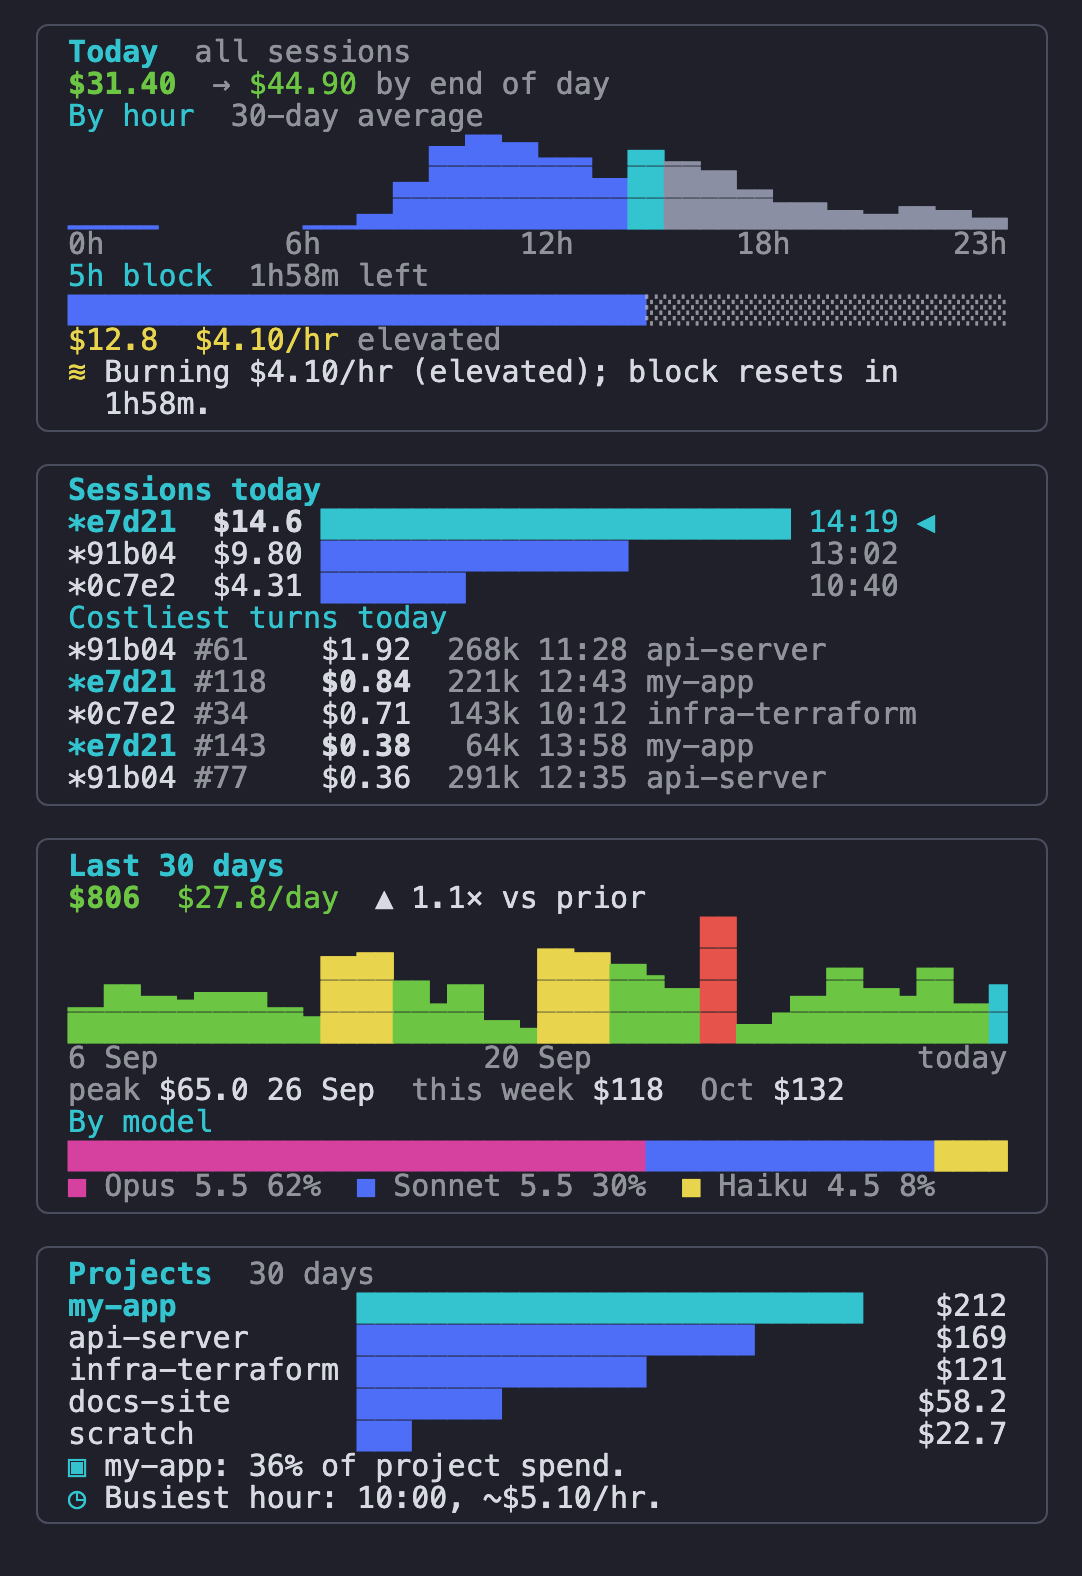
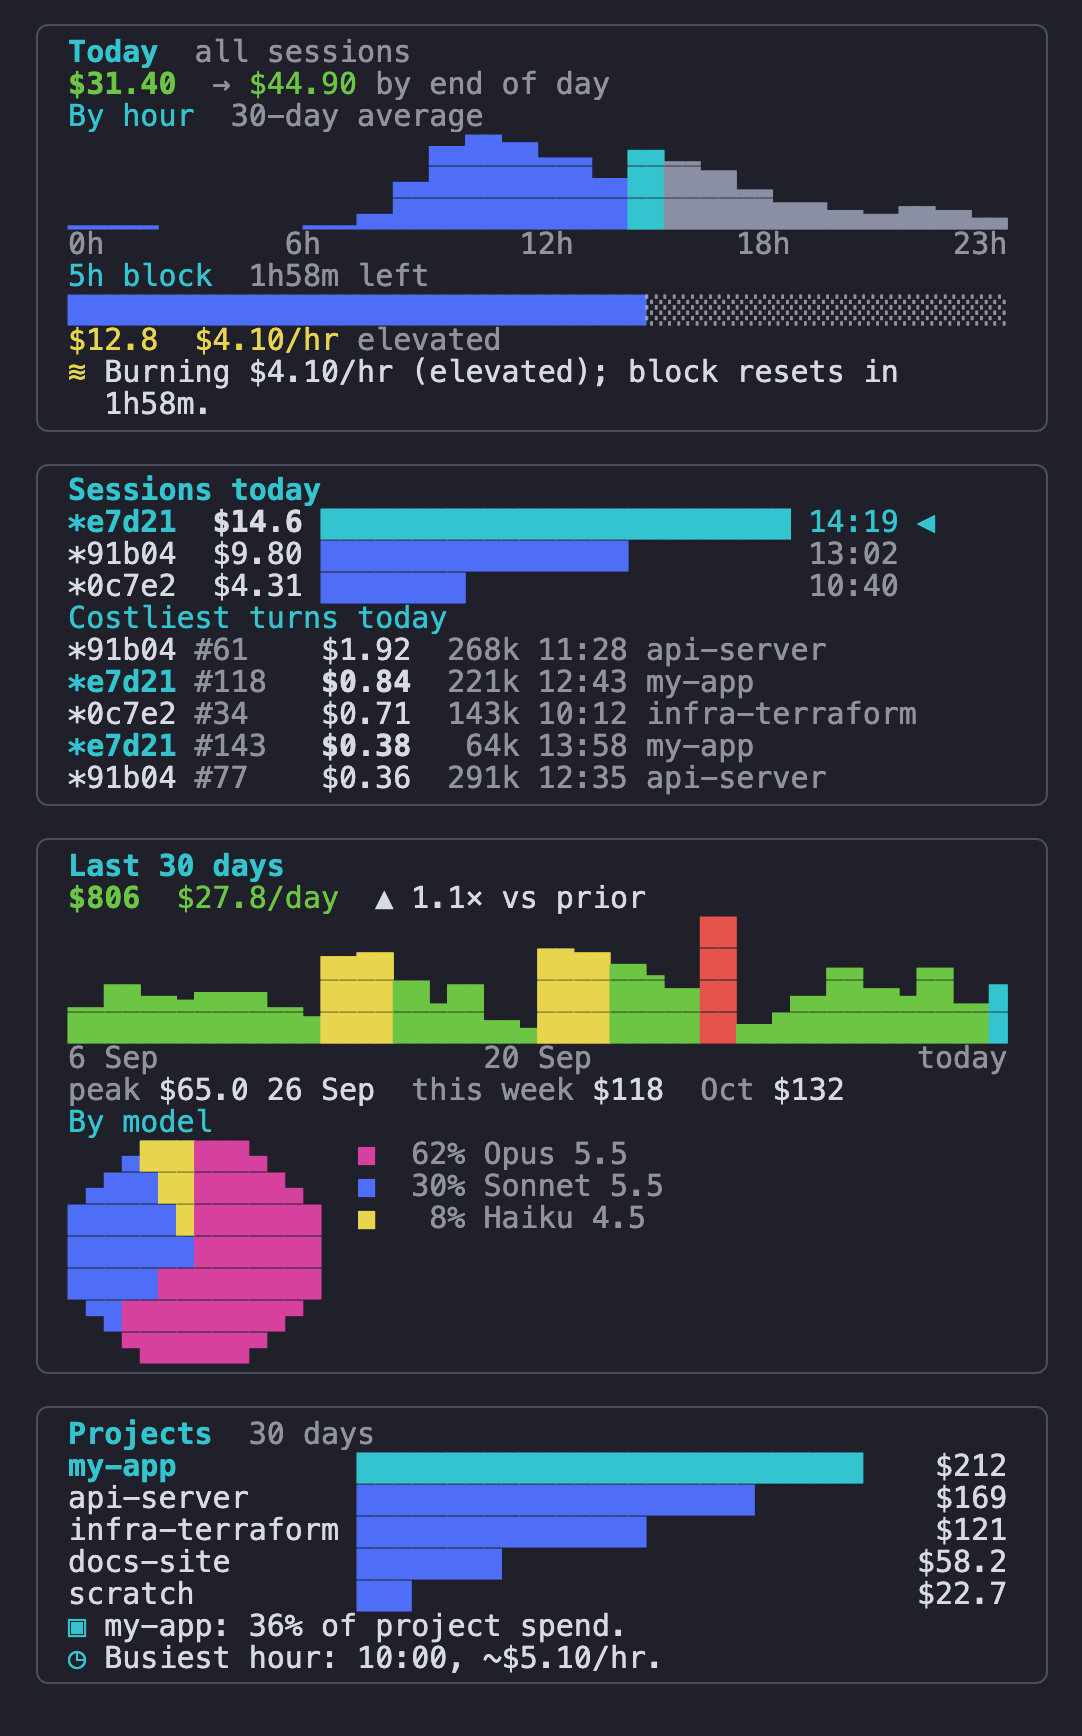
Sidebar: By model is a pie with its key beside it

diff --git a/mods/usage-panel/hooks/register.js b/mods/usage-panel/hooks/register.js
@@ -804,26 +804,26 @@ function daysSection(Box, T, d, W) {
   const peak = days.reduce((a, b) => (b.cost > a.cost ? b : a), days[0])
   out.push(T([T('peak ', { dimColor: true }), T(money(peak.cost) + ' ' + short(peak.d)), T('  this week ', { dimColor: true }), T(money(d.week)), T('  ' + short(days[last].d).split(' ')[1] + ' ', { dimColor: true }), T(money(d.month))], { wrap: 'truncate-end' }))
 
-  // Models: one stacked bar, with a legend.
+  // Models: a pie, its key beside it.
   const models = {}
   for (const x of days) for (const [m, c] of Object.entries(x.models || {})) models[m] = (models[m] || 0) + c
   const ranked = Object.entries(models).filter(([, c]) => c > 0).sort((a, b) => b[1] - a[1])
   const total = ranked.reduce((a, [, c]) => a + c, 0)
   if (total > 0 && ranked.length > 0) {
     const palette = ['magenta', 'blue', 'yellow', 'green', 'cyan']
+    // Five named, the rest as one slice, so every slice has a key.
+    const slices = ranked.slice(0, 5).map(([m, c], i) => ({ name: modelName(m), cost: c, colour: palette[i] }))
+    const rest = ranked.slice(5).reduce((a, [, c]) => a + c, 0)
+    if (rest > 0) slices.push({ name: 'Other', cost: rest, colour: 'gray' })
     out.push(sub(T, 'By model'))
-    const barW = Math.max(10, W)
-    const cells = []
-    let used = 0
-    ranked.forEach(([, c], i) => {
-      const n = i === ranked.length - 1 ? barW - used : Math.round((c * barW) / total)
-      if (n > 0) cells.push(T('█'.repeat(n), { color: palette[i % palette.length] }))
-      used += Math.max(0, n)
-    })
-    out.push(Box({ flexDirection: 'row', children: cells }))
     out.push(Box({
-      flexDirection: 'row', flexWrap: 'wrap', columnGap: 2, children: ranked.slice(0, 5).map(([m, c], i) =>
-        T([T('■ ', { color: palette[i % palette.length] }), T(modelName(m) + ' ' + Math.round((c * 100) / total) + '%', { dimColor: true })])),
+      flexDirection: 'row', columnGap: 2, children: [
+        Box({ flexDirection: 'column', children: pie(T, slices.map((x) => [x.colour, x.cost]), PIE_ROWS) }),
+        Box({
+          flexDirection: 'column', children: slices.map((x) =>
+            T([T('■ ', { color: x.colour }), T(lpad(Math.round((x.cost * 100) / total) + '%', 4) + ' ' + x.name, { dimColor: true })], { wrap: 'truncate-end' })),
+        }),
+      ],
     }))
   }
   return out
@@ -1056,6 +1056,47 @@ function footer(Box, T, d) {
 }
 
 // ---- drawing helpers
+
+const PIE_ROWS = 7
+
+// A pie in `rows` rows of text, twice as many cells wide (a cell is about
+// twice as tall as it is wide). Slices are [colour, amount], drawn clockwise
+// from twelve o'clock in the order given. Each cell takes the colour of the
+// slice at its middle; at the rim a half block keeps the outline round.
+export function pie(T, slices, rows) {
+  const total = slices.reduce((a, [, v]) => a + v, 0)
+  if (!(total > 0) || rows < 3) return []
+  const r = rows / 2
+  const at = (x, y) => {
+    const dx = x - r
+    const dy = y - r
+    if (dx * dx + dy * dy > r * r) return null
+    let turn = Math.atan2(dx, -dy) / (2 * Math.PI)
+    if (turn < 0) turn += 1
+    let sum = 0
+    for (const [c, v] of slices) {
+      sum += v / total
+      if (turn < sum) return c
+    }
+    return slices[slices.length - 1][0]
+  }
+  const out = []
+  for (let row = 0; row < rows; row++) {
+    const segs = []
+    for (let col = 0; col < rows * 2; col++) {
+      const x = (col + 0.5) / 2
+      const top = at(x, row + 0.25)
+      const low = at(x, row + 0.75)
+      const ch = top && low ? '█' : top ? '▀' : low ? '▄' : ' '
+      const c = top && low ? at(x, row + 0.5) || top : top || low || undefined
+      const last = segs[segs.length - 1]
+      if (last && last.c === c) last.text += ch
+      else segs.push({ c, text: ch })
+    }
+    out.push(T(segs.map((g) => T(g.text, { color: g.c }))))
+  }
+  return out
+}
 
 // A horizontal gauge: pct filled in colour, the rest dim, ticks at the given
 // percentages.

diff --git a/mods/usage-panel/tests/usage-panel.test.ts b/mods/usage-panel/tests/usage-panel.test.ts
@@ -1,5 +1,5 @@
 import { expect, mock, test } from 'claude-code/testing'
-import { axis, insights, k, layoutOf, limitsOf, modelName, money, planOf, relayout, share } from '../hooks/register.js'
+import { axis, insights, k, layoutOf, limitsOf, modelName, money, pie, planOf, relayout, share } from '../hooks/register.js'
 
 const PANE = {
   plugin: 'usage-panel',
@@ -550,6 +550,23 @@ test('a long folder beside the session id loses its start, not its end', async (
   expect(note.text.endsWith('-with-a-long-name')).toBe(true)
   // The heading and the note together fit the card.
   expect('Session:'.length + note.text.length).toBeLessThanOrEqual(50)
+})
+
+test('the models pie gives each slice its share of the disc, clockwise from the top', () => {
+  const T = (children: any, props: any = {}) => ({ props, children: Array.isArray(children) ? children : [children] })
+  const rows = pie(T, [['magenta', 50], ['blue', 25], ['yellow', 25]], 7) as any[]
+  expect(rows.length).toBe(7)
+  const cells: Record<string, number> = {}
+  for (const row of rows) for (const seg of row.children) if (seg.props.color) cells[seg.props.color] = (cells[seg.props.color] || 0) + seg.children[0].length
+  const all = cells.magenta + cells.blue + cells.yellow
+  expect(Math.abs(cells.magenta / all - 0.5)).toBeLessThan(0.08)
+  expect(Math.abs(cells.blue / all - 0.25)).toBeLessThan(0.08)
+  // The first slice starts at twelve o'clock and runs down the right side.
+  const mid = rows[3].children
+  expect(mid[mid.length - 1].props.color).toBe('magenta')
+  // Every row is as wide as the pie: twice its height in cells.
+  for (const row of rows) expect(row.children.reduce((a: number, g: any) => a + g.children[0].length, 0)).toBe(14)
+  expect(pie(T, [], 7)).toEqual([])
 })
 
 test('formatting', () => {

diff --git a/README.md b/README.md
@@ -190,7 +190,7 @@ One turn is usually dear for one of three reasons: a large context written to th
 | The bar chart | One bar per day. Green is ordinary, yellow is over 1.5× the daily average, red over 2×, cyan is today. |
 | `peak $65.0 26 Sep` | The most expensive day. |
 | `this week $118` / `Oct $132` | This week and this calendar month so far. |
-| `By model` | Each model's share of the 30 days' spend, as one bar with a key. |
+| `By model` | Each model's share of the 30 days' spend, as a pie with its key beside it: clockwise from twelve o'clock, largest first. Five models are named; any more are one grey `Other` slice. A share too small for a cell is in the key but not on the pie. |
 
 ### Projects
 
